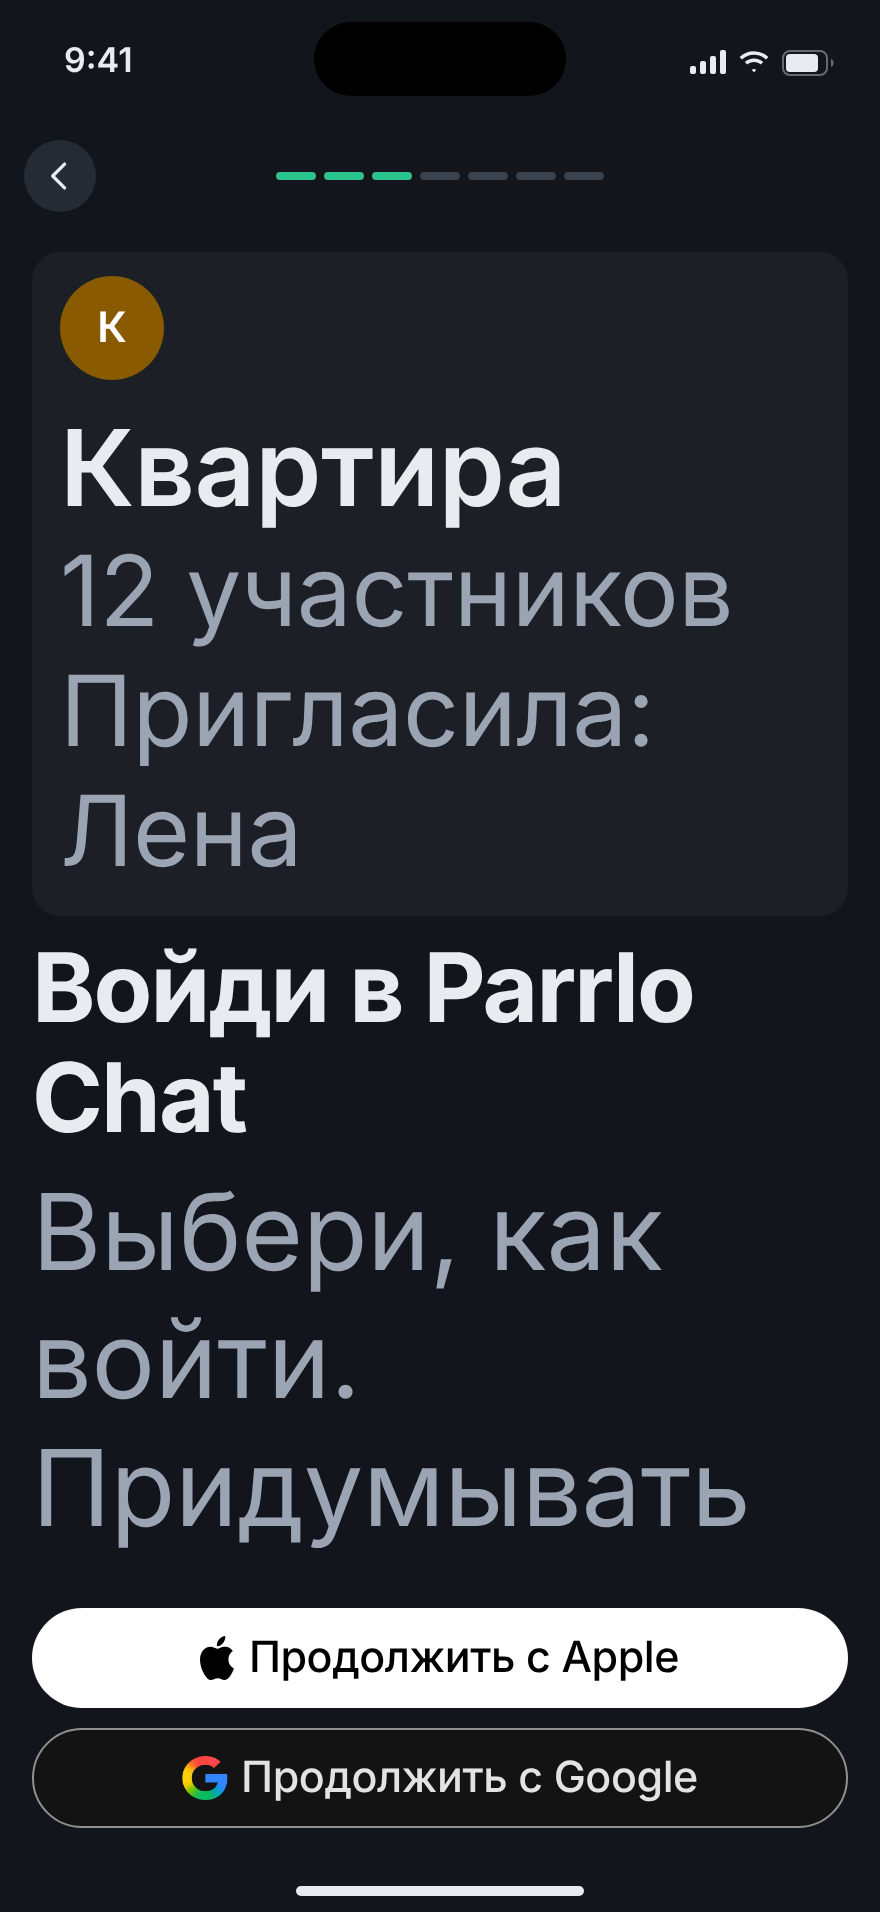
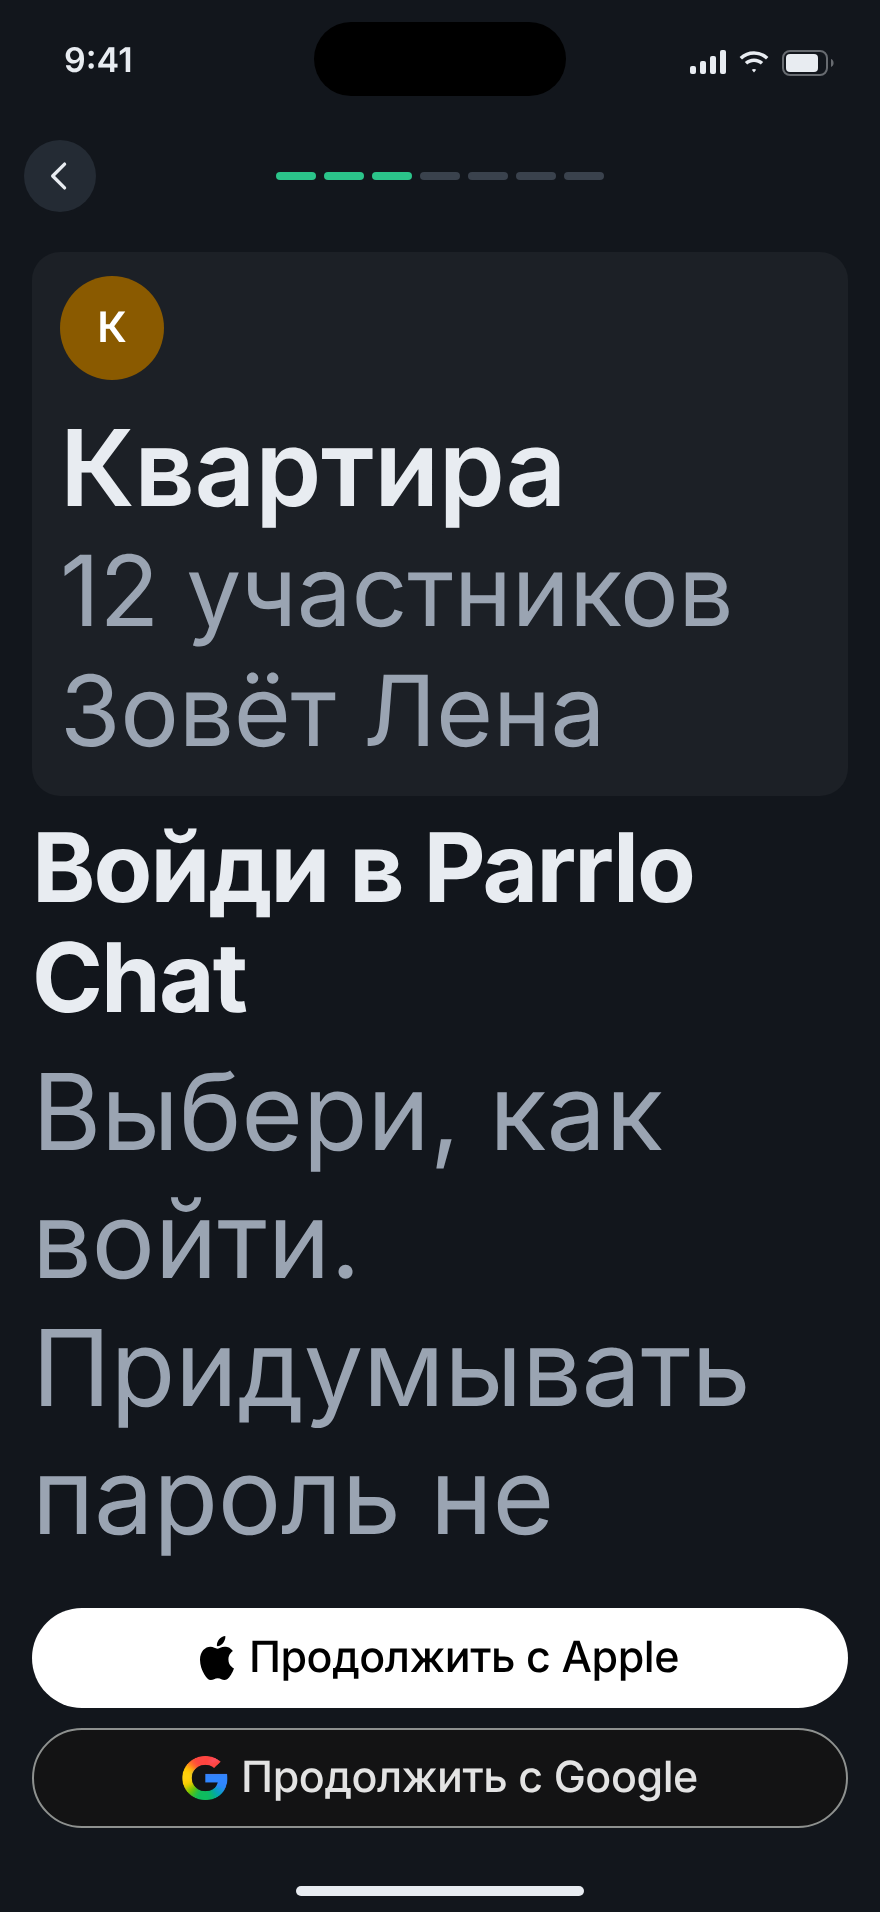
Онбординг: без рода — «Неверный год? Изменить», «Зовёт Лена»
Claude-Session: https://claude.ai/code/session_01XzoWkW25V1nW2Qv4cEPq3n

Changed region(s): [[0.0307, 0.3394, 0.8591, 0.8332], [0.7977, 0.7097, 0.8591, 0.7406]]

diff --git a/redesign-ios/onboarding/tools/build.js b/redesign-ios/onboarding/tools/build.js
@@ -144,8 +144,8 @@ S['ob-signin-google-error'] = (li) => signin(li, errBan(L('Не получило
 S['ob-signin-cancel'] = (li) => signin(li, errBan(L('Вход отменён', 'Acceso cancelado', 'Sign-in cancelled')[li], L('Аккаунт не создан. Можно попробовать снова.', 'No se ha creado ninguna cuenta. Puedes intentarlo de nuevo.', 'No account was created. You can try again.')[li], tbd(C.word[li])));
 S['ob-signin-offline'] = (li) => signin(li, errBan(L('Нет сети', 'Sin conexión', 'No connection')[li], L('Проверь подключение к интернету и попробуй ещё раз.', 'Comprueba tu conexión a internet e inténtalo de nuevo.', 'Check your internet connection and try again.')[li], tbd(C.word[li])));
 S['ob-signin-invite'] = (li) => signin(li, '', {
-  head: `<div class="gcard" role="group" aria-label="${L('Приглашение в группу', 'Invitación al grupo', 'Group invitation')[li]}"><span class="av" style="background:var(--av-1)">${L('К', 'P', 'F')[li]}</span><div class="tx"><b>${L('Квартира', 'Piso', 'Flat')[li]}</b><span class="s">${L('12 участников', '12 participantes', '12 members')[li]}</span><span class="s">${L('Пригласила: Лена', 'Te invita: Lena', 'Invited by: Lena')[li]}</span></div></div>`,
-  after: `<p class="small">${tx(L('Карточка приглашения: группа, число участников, кто пригласил.', 'Tarjeta de invitación: grupo, número de participantes, quién te invita.', 'Invitation card: group, number of members, who invited you.')[li])}</p>${tbd(C.na[li])}`,
+  head: `<div class="gcard" role="group" aria-label="${L('Приглашение в группу', 'Invitación al grupo', 'Group invitation')[li]}"><span class="av" style="background:var(--av-1)">${L('К', 'P', 'F')[li]}</span><div class="tx"><b>${L('Квартира', 'Piso', 'Flat')[li]}</b><span class="s">${L('12 участников', '12 participantes', '12 members')[li]}</span><span class="s">${L('Зовёт Лена', 'Te invita: Lena', 'Invited by: Lena')[li]}</span></div></div>`,
+  after: `<p class="small">${tx(L('Карточка приглашения: группа, число участников, от кого приглашение.', 'Tarjeta de invitación: grupo, número de participantes, quién te invita.', 'Invitation card: group, number of members, who invited you.')[li])}</p>${tbd(C.na[li])}`,
 });
 
 const wheel = (li, lab) => `<div class="sech">${tx(lab)}</div><div class="wheel" role="spinbutton" aria-label="${lab}" aria-valuenow="1994"><i class="band"></i><span class="s2">1992</span><span class="s1">1993</span><span class="sel">1994</span><span class="s1">1995</span><span class="s2">1996</span></div>`;
@@ -163,7 +163,7 @@ ${tbd(L('запасной вариант, не для v1', 'variante de reserva,
 <div class="acts">${bp(C.cont[li])}</div>`); };
 S['ob-age-under'] = (li) => ob(`${top(li, 0)}
 <div class="body"><h1 class="ttl">${tx(L('Пока не получится', 'Todavía no se puede', 'Not just yet')[li])}</h1><p class="lead">${tx(L('Parrlo Chat — для тех, кому исполнилось 16. Аккаунт не создан. Загляни позже — мы будем рады.', 'Parrlo Chat es para mayores de 16 años. No se ha creado ninguna cuenta. Vuelve más adelante: te esperamos.', 'Parrlo Chat is for ages 16 and up. No account has been created. Come back later — we’d love to have you.')[li])}</p></div>
-<div class="acts">${bp(C.gotit[li])}${bt(L('Указал не тот год? Изменить', '¿Año incorrecto? Cámbialo', 'Wrong year? Change it')[li])}</div>`);
+<div class="acts">${bp(C.gotit[li])}${bt(L('Неверный год? Изменить', '¿Año incorrecto? Cámbialo', 'Wrong year? Change it')[li])}</div>`);
 S['ob-age-under-date'] = (li) => ob(`${top(li, 0)}
 <div class="body"><h1 class="ttl">${tx(L('Parrlo Chat пока недоступен', 'Parrlo Chat no está disponible por ahora', 'Parrlo Chat isn’t available yet')[li])}</h1><p class="lead">${tx(L('Parrlo Chat — для людей от 16 лет. По указанной дате создать аккаунт сейчас нельзя. Мы удалили данные, которые получили при входе через [Apple/Google], и не сохранили дату рождения. Если считаешь, что это ошибка, напиши нам: hello@parrlo.com. Вернуться можно, когда тебе исполнится 16.',
   'Parrlo Chat es para personas de 16 años o más. Con la fecha indicada no se puede crear una cuenta ahora. Hemos borrado los datos que recibimos al iniciar sesión con [Apple/Google] y no hemos guardado la fecha de nacimiento. Si crees que es un error, escríbenos: hello@parrlo.com. Podrás volver cuando cumplas 16 años.',

diff --git a/redesign-ios/onboarding/ob-signin-invite.html b/redesign-ios/onboarding/ob-signin-invite.html
@@ -9,11 +9,11 @@ h.dataset.theme='dark';var l=q.get('l');h.lang=(l==='es'||l==='en')?l:'ru';})()<
 <svg width="16" height="12" viewBox="0 0 16 12" fill="currentColor"><path d="M8 2.4c2.3 0 4.4.9 6 2.4l1.2-1.3A10.4 10.4 0 008 .6 10.4 10.4 0 00.8 3.5L2 4.8a8.6 8.6 0 016-2.4zm0 3.6c1.3 0 2.5.5 3.4 1.3l1.2-1.3A6.8 6.8 0 008 4.2 6.8 6.8 0 003.4 6l1.2 1.3c.9-.8 2.1-1.3 3.4-1.3zm0 3.5c.4 0 .8.2 1.1.4L8 11.2 6.9 9.9c.3-.2.7-.4 1.1-.4z"/></svg>
 <svg width="27" height="13" viewBox="0 0 27 13"><rect x=".5" y=".5" width="22" height="12" rx="3.5" fill="none" stroke="currentColor" stroke-opacity=".4"/><rect x="2" y="2" width="16" height="9" rx="2" fill="currentColor"/><path d="M24.5 4.5v4c.8-.3 1.3-1.1 1.3-2s-.5-1.7-1.3-2z" fill="currentColor" fill-opacity=".4"/></svg></span></div>
 <header class="top"><span class="cbtn" role="button" aria-label="Назад"><svg class="ic " viewBox="0 0 24 24" aria-hidden="true"><path d="M14.5 5.5L8 12l6.5 6.5"/></svg></span><div class="prog" role="img" aria-label="Шаг 3 из 7"><i class="on"></i><i class="on"></i><i class="on"></i><i class=""></i><i class=""></i><i class=""></i><i class=""></i></div></header>
-<div class="body"><div class="gcard" role="group" aria-label="Приглашение в группу"><span class="av" style="background:var(--av-1)">К</span><div class="tx"><b>Квартира</b><span class="s">12 участников</span><span class="s">Пригласила: Лена</span></div></div>
+<div class="body"><div class="gcard" role="group" aria-label="Приглашение в группу"><span class="av" style="background:var(--av-1)">К</span><div class="tx"><b>Квартира</b><span class="s">12 участников</span><span class="s">Зовёт Лена</span></div></div>
 <h1 class="ttl">Войди в Parrlo Chat</h1><p class="lead">Выбери, как войти. Придумывать пароль не нужно.</p>
 <p class="small">Продолжая, ты принимаешь Условия использования и Политику конфиденциальности.</p><span class="tbd">формулировка: не утверждено</span>
 <div class="links"><span class="lnk" role="button">Условия использования</span><span class="lnk" role="button">Политика конфиденциальности</span></div>
-<p class="ph">Оператор: PADELADA WORLD, S.L. · NIF B05783238 · Calle Josep Pla 8, Esc. 1, Pta. 1, 17252 Calonge i Sant Antoni (Girona), España · hello@parrlo.com. Политика конфиденциальности.</p><p class="small">Карточка приглашения: группа, число участников, кто пригласил.</p><span class="tbd">не утверждено</span></div>
+<p class="ph">Оператор: PADELADA WORLD, S.L. · NIF B05783238 · Calle Josep Pla 8, Esc. 1, Pta. 1, 17252 Calonge i Sant Antoni (Girona), España · hello@parrlo.com. Политика конфиденциальности.</p><p class="small">Карточка приглашения: группа, число участников, от кого приглашение.</p><span class="tbd">не утверждено</span></div>
 <div class="acts"><span class="sib apple" role="button"><img src="../../brand/apple-logo-black.svg" alt=""><span>Продолжить с Apple</span></span>
 <span class="sib google" role="button"><img src="../../brand/google-g.png" alt=""><span>Продолжить с Google</span></span></div>
 <i class="home-ind"></i></template>

diff --git a/redesign-ios/onboarding/ob-age-under.html b/redesign-ios/onboarding/ob-age-under.html
@@ -10,7 +10,7 @@ h.dataset.theme='dark';var l=q.get('l');h.lang=(l==='es'||l==='en')?l:'ru';})()<
 <svg width="27" height="13" viewBox="0 0 27 13"><rect x=".5" y=".5" width="22" height="12" rx="3.5" fill="none" stroke="currentColor" stroke-opacity=".4"/><rect x="2" y="2" width="16" height="9" rx="2" fill="currentColor"/><path d="M24.5 4.5v4c.8-.3 1.3-1.1 1.3-2s-.5-1.7-1.3-2z" fill="currentColor" fill-opacity=".4"/></svg></span></div>
 <header class="top"><span class="cbtn" role="button" aria-label="Назад"><svg class="ic " viewBox="0 0 24 24" aria-hidden="true"><path d="M14.5 5.5L8 12l6.5 6.5"/></svg></span></header>
 <div class="body"><h1 class="ttl">Пока не получится</h1><p class="lead">Parrlo Chat — для тех, кому исполнилось 16. Аккаунт не создан. Загляни позже — мы будем рады.</p></div>
-<div class="acts"><span class="bp" role="button"><span>Понятно</span></span><span class="bt" role="button">Указал не тот год? Изменить</span></div>
+<div class="acts"><span class="bp" role="button"><span>Понятно</span></span><span class="bt" role="button">Неверный год? Изменить</span></div>
 <i class="home-ind"></i></template>
 <template id="l-es" data-cls="ob"><div class="sb"><span>9:41</span><i class="island"></i><span class="ri">
 <svg width="18" height="12" viewBox="0 0 18 12" fill="currentColor"><rect x="0" y="8" width="3" height="4" rx="1"/><rect x="5" y="5.5" width="3" height="6.5" rx="1"/><rect x="10" y="3" width="3" height="9" rx="1"/><rect x="15" y="0" width="3" height="12" rx="1"/></svg>

diff --git a/redesign-ios/onboarding/README.md b/redesign-ios/onboarding/README.md
@@ -24,7 +24,7 @@
 | ob-signin-invite | ob-signin-invite | карточка группы «Квартира» вместо попугая + пометка карточки |
 | **ob-age** (приоритет) | ob-age | шаг 4/7, колесо года (1994), строка про «Мой голос» |
 | ob-age-date | ob-age-date | запасной вариант (не для v1): поля день/месяц/год, плашки юриста |
-| ob-age-under | ob-age-under | без прогресса, «Понятно» + «Указал не тот год? Изменить» |
+| ob-age-under | ob-age-under | без прогресса, «Понятно» + «Неверный год? Изменить» |
 | ob-age-under-date | ob-age-under-date | запасной вариант, текст юриста, плашки |
 | **ob-name** (приоритет) | ob-name | шаг 5/7, поле «Мария» в фокусе, «до 60 символов» |
 | **ob-consent** (приоритет) | ob-consent | шаг 6/7, 4 пункта (текст юриста дословно, «на решении юриста»), оператор, переключатель «Запоминать…» (выкл.), «Разрешить» / «Не сейчас» |
@@ -60,9 +60,9 @@
 Если слово не влезает (AX5), шрифт блока уменьшается ×0,92 шагами, не ниже 28 (≈ AX1 Body) — скрипт `wordfit` в странице; на SE AX5 это заголовки/текст в ряде экранов (список — в выводе `render.js`).
 `render.js` проверяет каждый из 264 кадров: элемент не шире своего бокса, ни одно слово не выходит за самый узкий бокс-предок и за экран, ни одно слово не разорвано между строками. **Итог: нарушений нет.**
 
-## Вопросы к текстам (не правил — тексты дословные)
+## Вопросы к текстам
 
-- `ob-age-under`: «**Указал** не тот год?» — мужской род у пользователя (ES/EN нейтральны).
-- `ob-signin-invite`: «**Пригласила**: Лена», в пометке «кто **пригласил**» — род у другого человека.
+- `ob-age-under`: было «Указал не тот год?» (род у пользователя) → **«Неверный год? Изменить»**, как в ES/EN. Правку в исходный экран — отдельно.
+- `ob-signin-invite`: было «Пригласила: Лена» / «кто пригласил» (род) → **«Зовёт Лена»** / «от кого приглашение». Правку в исходный экран — отдельно.
 - `ob-consent`: «Сообщения **шифруются** при передаче…» — заявление о шифровании. Это текст юриста с плашкой «на решении юриста», оставлен дословно.
 - `account-suspended` ES: «Escribe en ruso», «Traducido del ruso» при RU/EN «по-испански / Spanish» — так в исходном кадре.
